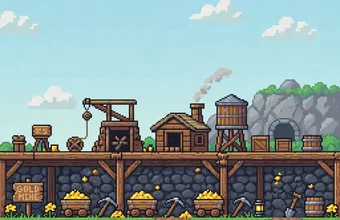
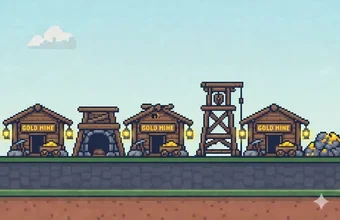
광부 버프
Entire-Checkpoint: e226fecc5db8

diff --git a/src/scenes/GameScene.ts b/src/scenes/GameScene.ts
@@ -74,6 +74,9 @@ export default class GameScene extends BaseScene {
   private feverTimeColorOffset: number = 0; // 무지개 색상 회전 오프셋
   private feverTimeColorTimer?: Phaser.Time.TimerEvent; // 색상 애니메이션 타이머
   private lastFeverTimeScore: number = 0; // 마지막 피버 타임 발동 점수
+  private feverCount: number = 0;          // 피버 발동 횟수 누계 (레인보우 피버 조건 판정용)
+  private isRainbowFever: boolean = false; // 레인보우 피버 활성 여부 (광부×황금광산 시너지)
+  private get feverTimeLabel(): string { return this.isRainbowFever ? 'RAINBOW FEVER' : 'FEVER TIME'; }
   /** difficultyLevel 기반으로 현재 spawn 간격을 항상 최신값으로 계산 */
   private get currentSpawnDelay(): number {
     return Math.max(400, this.difficultyConfig.spawnDelay - (this.difficultyLevel * 80));
@@ -83,6 +86,12 @@ export default class GameScene extends BaseScene {
   private static readonly RAINBOW_COLORS = [
     '#ff0000', '#ff7f00', '#ffff00', '#00ff00', '#0000ff', '#4b0082', '#9400d3',
   ];
+  /** 레인보우 피버 전용 네온 컬러 — 더 선명하고 밝은 팔레트 */
+  private static readonly NEON_RAINBOW_COLORS = [
+    '#ff00cc', '#ff6600', '#ffee00', '#00ff88', '#00ccff', '#cc00ff', '#ffffff',
+  ];
+  /** 레인보우 피버 변환 시 방울 터짐 효과 색상 */
+  private static readonly BUBBLE_COLORS = [0xff00ff, 0x00ffff, 0xffee00, 0x00ff88, 0xff6600, 0xcc00ff];
   private selectedCharId: string = 'chibi'; // 선택된 캐릭터 ID
   private selectedCharGrade: string = '등급외'; // 선택된 캐릭터 등급
   private charAwakeLevel: number = 0; // 각성 단계 (init에서 계산, create에서 사용)
@@ -125,6 +134,8 @@ export default class GameScene extends BaseScene {
     this.isFeverTime = false;
     this.feverTimeRemaining = 0;
     this.lastFeverTimeScore = 0;
+    this.feverCount = 0;
+    this.isRainbowFever = false;
     // 캐릭터 선택 화면에서 저장한 캐릭터 & 배경화면 사용
     this.selectedCharId = getSafeSelectedCharacter();
     this.selectedWpId = getSafeSelectedWallpaper();
@@ -321,11 +332,11 @@ export default class GameScene extends BaseScene {
       maxSize: 10,
     });
 
-    // 무지개똥 그룹 생성
+    // 무지개똥 그룹 생성 (레인보우 피버 시 최대 30개 동시 활성 가능)
     this.rainbowPoops = this.physics.add.group({
       classType: RainbowPoop,
       runChildUpdate: true,
-      maxSize: 10,
+      maxSize: 30,
     });
 
     // 풀 사전 할당 — create() 시점에 오브젝트를 미리 생성해 게임 중 런타임 생성 히치 방지
@@ -881,7 +892,11 @@ export default class GameScene extends BaseScene {
 
   private increaseDifficulty() {
     this.difficultyLevel += DIFFICULTY_SCALING.levelIncrement;
-    this.resetSpawnTimer(this.isFeverTime ? this.spawnFeverPoop : this.spawnPoop);
+    this.resetSpawnTimer(
+      this.isFeverTime
+        ? (this.isRainbowFever ? this.spawnRainbowFeverPoop : this.spawnFeverPoop)
+        : this.spawnPoop
+    );
   }
 
   /**
@@ -918,64 +933,111 @@ export default class GameScene extends BaseScene {
     this.isFeverTime = true;
     this.feverTimeRemaining = FEVER_TIME_CONFIG.duration;
 
-    // 기존 일반 똥들을 금똥/다이아똥으로 변환
-    if (this.poops) {
-      const poopPositions: Array<{ x: number; y: number; velocity: number }> = [];
+    // 레인보우 피버: 시너지에 rainbowFever 플래그가 있고 2번째 피버부터 4회마다 (2, 6, 10...)
+    this.feverCount++;
+    const isRainbowFeverNow =
+      this.activeSynergy?.rainbowFever === true &&
+      this.feverCount >= 2 &&
+      (this.feverCount - 2) % 4 === 0;
+    this.isRainbowFever = isRainbowFeverNow;
 
-      // 모든 똥의 위치와 속도 저장 후 풀에 반환 (비활성화)
+    // 기존 화면 위 똥들 처리
+    if (isRainbowFeverNow) {
+      // 레인보우 피버: 모든 기존 똥(일반+금+다이아)을 무지개똥으로 변환
+      const positions: Array<{ x: number; y: number; velocity: number }> = [];
+
       this.poops.children.entries.forEach((poop) => {
-        const poopSprite = poop as Poop;
-        if (!poopSprite.active) return;
-        const body = poopSprite.body as Phaser.Physics.Arcade.Body;
+        const s = poop as Poop;
+        if (!s.active) return;
+        const body = s.body as Phaser.Physics.Arcade.Body;
         if (!body) return;
-        poopPositions.push({ x: poopSprite.x, y: poopSprite.y, velocity: body.velocity.y });
-        poopSprite.recycle();
+        positions.push({ x: s.x, y: s.y, velocity: body.velocity.y });
+        s.recycle();
+      });
+      [this.goldPoops, this.diamondPoops].forEach((group) => {
+        group.children.entries.forEach((item) => {
+          const s = item as PoolablePoopBase;
+          if (!s.active) return;
+          const body = s.body as Phaser.Physics.Arcade.Body;
+          if (!body) return;
+          positions.push({ x: s.x, y: s.y, velocity: body.velocity.y });
+          s.recycle();
+        });
       });
 
-      // 같은 위치에 금똥/다이아똥 생성 (50:50 확률)
-      poopPositions.forEach((pos) => {
-        const isGold = Math.random() < 0.5;
+      positions.forEach((pos) => {
+        for (let b = 0; b < 7; b++) {
+          const r = Phaser.Math.Between(3, 7);
+          const startX = pos.x + Phaser.Math.Between(-10, 10);
+          const bubble = this.add.circle(startX, pos.y, r, GameScene.BUBBLE_COLORS[b % GameScene.BUBBLE_COLORS.length], 0.9).setDepth(200);
+          this.tweens.add({
+            targets: bubble,
+            x: startX + Phaser.Math.Between(-18, 18),
+            y: pos.y - Phaser.Math.Between(28, 55),
+            alpha: 0,
+            scaleX: 0.2,
+            scaleY: 0.2,
+            duration: Phaser.Math.Between(280, 480),
+            ease: 'Sine.easeOut',
+            delay: b * 20,
+            onComplete: () => bubble.destroy(),
+          });
+        }
 
-        if (isGold) {
-          const goldPoop = this.goldPoops.get() as GoldPoop;
-          if (goldPoop) {
-            goldPoop.reinit(pos.x, pos.y);
-            if (goldPoop.body) {
-              goldPoop.body.velocity.y = pos.velocity * FEVER_TIME_CONFIG.speedMultiplier;
+        const rp = this.rainbowPoops.get() as RainbowPoop;
+        if (!rp) return;
+        rp.reinit(pos.x, pos.y);
+        if (rp.body) {
+          rp.body.velocity.y = pos.velocity * FEVER_TIME_CONFIG.speedMultiplier;
+        }
+      });
+    } else {
+      // 일반 피버: 기존 일반 똥 → 금똥/다이아똥 변환
+      if (this.poops) {
+        const poopPositions: Array<{ x: number; y: number; velocity: number }> = [];
+
+        this.poops.children.entries.forEach((poop) => {
+          const poopSprite = poop as Poop;
+          if (!poopSprite.active) return;
+          const body = poopSprite.body as Phaser.Physics.Arcade.Body;
+          if (!body) return;
+          poopPositions.push({ x: poopSprite.x, y: poopSprite.y, velocity: body.velocity.y });
+          poopSprite.recycle();
+        });
+
+        poopPositions.forEach((pos) => {
+          const isGold = Math.random() < 0.5;
+          if (isGold) {
+            const goldPoop = this.goldPoops.get() as GoldPoop;
+            if (goldPoop) {
+              goldPoop.reinit(pos.x, pos.y);
+              if (goldPoop.body) {
+                goldPoop.body.velocity.y = pos.velocity * FEVER_TIME_CONFIG.speedMultiplier;
+              }
+            }
+          } else {
+            const diamondPoop = this.diamondPoops.get() as DiamondPoop;
+            if (diamondPoop) {
+              diamondPoop.reinit(pos.x, pos.y);
+              if (diamondPoop.body) {
+                diamondPoop.body.velocity.y = pos.velocity * FEVER_TIME_CONFIG.speedMultiplier;
+              }
             }
           }
-        } else {
-          const diamondPoop = this.diamondPoops.get() as DiamondPoop;
-          if (diamondPoop) {
-            diamondPoop.reinit(pos.x, pos.y);
-            if (diamondPoop.body) {
-              diamondPoop.body.velocity.y = pos.velocity * FEVER_TIME_CONFIG.speedMultiplier;
-            }
-          }
-        }
-      });
-    }
+        });
+      }
 
-    // 기존 금똥/다이아똥 속도만 증가
-    if (this.goldPoops) {
-      this.goldPoops.children.entries.forEach((goldPoop) => {
-        const goldPoopSprite = goldPoop as GoldPoop;
-        if (goldPoopSprite.body) {
-          goldPoopSprite.body.velocity.y *= FEVER_TIME_CONFIG.speedMultiplier;
-        }
-      });
-    }
-    if (this.diamondPoops) {
-      this.diamondPoops.children.entries.forEach((diamondPoop) => {
-        const diamondPoopSprite = diamondPoop as DiamondPoop;
-        if (diamondPoopSprite.body) {
-          diamondPoopSprite.body.velocity.y *= FEVER_TIME_CONFIG.speedMultiplier;
-        }
+      // 기존 금똥/다이아똥 속도만 증가
+      [this.goldPoops, this.diamondPoops].forEach((group) => {
+        group.children.entries.forEach((item) => {
+          const s = item as PoolablePoopBase;
+          if (s.body) s.body.velocity.y *= FEVER_TIME_CONFIG.speedMultiplier;
+        });
       });
     }
 
     // spawnTimer를 피버 타임 생성 패턴으로 교체
-    this.resetSpawnTimer(this.spawnFeverPoop);
+    this.resetSpawnTimer(isRainbowFeverNow ? this.spawnRainbowFeverPoop : this.spawnFeverPoop);
 
     // UI 텍스트 생성 (각 글자별로 개별 Text 객체 생성)
     // 기존 텍스트 제거
@@ -984,21 +1046,28 @@ export default class GameScene extends BaseScene {
     this.feverTimeColorOffset = 0;
 
     const initialSeconds = Math.ceil(FEVER_TIME_CONFIG.duration / 1000);
-    const fullText = `FEVER TIME ${initialSeconds}초`;
+    const fullText = `${this.feverTimeLabel} ${initialSeconds}초`;
 
     // 각 글자별로 Text 객체 생성 (x=0에 먼저 배치 후 width 합산해 재정렬)
-    const colors = GameScene.RAINBOW_COLORS;
+    const colors = isRainbowFeverNow ? GameScene.NEON_RAINBOW_COLORS : GameScene.RAINBOW_COLORS;
+    const uiFontSize = isRainbowFeverNow ? '22px' : FEVER_TIME_CONFIG.ui.fontSize;
+    const uiStroke  = isRainbowFeverNow ? '#cc00ff' : FEVER_TIME_CONFIG.ui.stroke;
+    const uiStrokeThickness = isRainbowFeverNow ? 5 : FEVER_TIME_CONFIG.ui.strokeThickness;
+
     for (let i = 0; i < fullText.length; i++) {
       const charText = this.add.text(
         0,
         FEVER_TIME_CONFIG.ui.position.y,
         fullText[i],
         {
-          fontSize: FEVER_TIME_CONFIG.ui.fontSize,
+          fontSize: uiFontSize,
           color: colors[i % colors.length],
           fontStyle: 'bold',
-          stroke: FEVER_TIME_CONFIG.ui.stroke,
-          strokeThickness: FEVER_TIME_CONFIG.ui.strokeThickness
+          stroke: uiStroke,
+          strokeThickness: uiStrokeThickness,
+          shadow: isRainbowFeverNow
+            ? { offsetX: 0, offsetY: 0, color: colors[i % colors.length], blur: 8, stroke: true, fill: true }
+            : undefined,
         }
       ).setOrigin(0, 0.5).setDepth(FEVER_TIME_CONFIG.ui.depth);
       this.feverTimeUITexts.push(charText);
@@ -1010,6 +1079,21 @@ export default class GameScene extends BaseScene {
     for (const charText of this.feverTimeUITexts) {
       charText.setX(currentX);
       currentX += charText.width;
+    }
+
+    // 레인보우 피버: 글자마다 파도치는 bounce 애니메이션
+    if (isRainbowFeverNow) {
+      this.feverTimeUITexts.forEach((charText, i) => {
+        this.tweens.add({
+          targets: charText,
+          y: FEVER_TIME_CONFIG.ui.position.y - 10,
+          duration: 260,
+          ease: 'Sine.easeInOut',
+          yoyo: true,
+          repeat: -1,
+          delay: i * 38,
+        });
+      });
     }
 
 
@@ -1030,7 +1114,7 @@ export default class GameScene extends BaseScene {
       this.feverTimeColorTimer.remove();
     }
     this.feverTimeColorTimer = this.time.addEvent({
-      delay: 200,
+      delay: isRainbowFeverNow ? 80 : 200,
       callback: this.updateFeverTimeColors,
       callbackScope: this,
       loop: true
@@ -1044,7 +1128,7 @@ export default class GameScene extends BaseScene {
     this.feverTimeRemaining -= 100; // 0.1초씩 감소
 
     const secondsRemaining = Math.ceil(this.feverTimeRemaining / 1000);
-    const newText = `FEVER TIME ${secondsRemaining}초`;
+    const newText = `${this.feverTimeLabel} ${secondsRemaining}초`;
 
     // 각 글자의 텍스트 내용 업데이트
     for (let i = 0; i < this.feverTimeUITexts.length; i++) {
@@ -1074,7 +1158,7 @@ export default class GameScene extends BaseScene {
    * 피버 타임 색상 애니메이션 업데이트
    */
   private updateFeverTimeColors() {
-    const colors = GameScene.RAINBOW_COLORS;
+    const colors = this.isRainbowFever ? GameScene.NEON_RAINBOW_COLORS : GameScene.RAINBOW_COLORS;
     this.feverTimeColorOffset = (this.feverTimeColorOffset - 1 + colors.length) % colors.length;
     for (let i = 0; i < this.feverTimeUITexts.length; i++) {
       this.feverTimeUITexts[i].setColor(colors[(i + this.feverTimeColorOffset) % colors.length]);
@@ -1088,9 +1172,10 @@ export default class GameScene extends BaseScene {
   private clearFeverTimeUI() {
     if (!this.isFeverTime) return;
     this.isFeverTime = false;
+    this.isRainbowFever = false;
     this.feverTimeTimer?.remove();
     this.feverTimeColorTimer?.remove();
-    this.feverTimeUITexts.forEach(t => t.destroy());
+    this.feverTimeUITexts.forEach(t => { this.tweens.killTweensOf(t); t.destroy(); });
     this.feverTimeUITexts = [];
   }
 
@@ -1150,6 +1235,28 @@ export default class GameScene extends BaseScene {
     }
 
     this.ability.onAfterSpawnPoop(this.abilityAPI);
+  }
+
+  /**
+   * 레인보우 피버 생성 패턴 — 무지개똥만 소환 (광부×황금광산 시너지)
+   */
+  private spawnRainbowFeverPoop() {
+    if (this.gameOver) return;
+
+    const baseFallSpeed = this.difficultyConfig.baseSpeed + (this.difficultyLevel * POOP_CONFIG.normal.speedIncrement);
+    const fallSpeed = baseFallSpeed * FEVER_TIME_CONFIG.speedMultiplier;
+    const totalCount = FEVER_TIME_CONFIG.normalPoopCount + FEVER_TIME_CONFIG.bonusPoopCount;
+
+    for (let i = 0; i < totalCount; i++) {
+      const x = Phaser.Math.Between(50, this.scale.width - 50);
+      const y = Phaser.Math.Between(-200, -20);
+      const rp = this.rainbowPoops.get() as RainbowPoop;
+      if (!rp) continue;
+      rp.reinit(x, y);
+      if (rp.body) {
+        rp.body.velocity.y = fallSpeed;
+      }
+    }
   }
 
   protected hitPoop(

diff --git a/src/config/synergyMap.ts b/src/config/synergyMap.ts
@@ -2,6 +2,7 @@ export interface WallpaperSynergy {
   label: string;        // UI 뱃지 텍스트
   speedBonus: number;   // 이동 속도 추가 (px/s)
   collectBonus: number; // 특수 똥 수집마다 추가 점수
+  rainbowFever?: boolean; // true → 특정 피버마다 레인보우 피버로 교체
 }
 
 // 모든 시너지의 고정 보너스 값
@@ -9,7 +10,7 @@ const SYNERGY_BONUSES = { speedBonus: 5, collectBonus: 2 } as const;
 
 // 'wallpaperId:characterId' → WallpaperSynergy
 export const SYNERGY_MAP: Record<string, WallpaperSynergy> = {
-  'wp_gold_mine:miner': { label: '황금 광산 × 광부', ...SYNERGY_BONUSES },
+  'wp_gold_mine:miner': { label: '황금 광산 × 광부', ...SYNERGY_BONUSES, rainbowFever: true },
   'wp_hanok:maehwa':    { label: '한옥 × 매화',      ...SYNERGY_BONUSES },
   'wp_lake:archieve':   { label: '호수 × 아카이브',  ...SYNERGY_BONUSES },
   'wp_maehwa:maehwa':   { label: '매화 × 매화',      ...SYNERGY_BONUSES },

diff --git a/src/data/releaseNotes.ts b/src/data/releaseNotes.ts
@@ -6,6 +6,14 @@ export interface ReleaseNote {
 
 export const RELEASE_NOTES: ReleaseNote[] = [
   {
+    version: 'v2.4.0',
+    date: '2026-04-13',
+    changes: [
+      '황금 광산 배경 이미지 고화질로 교체',
+      '광부 × 황금 광산 시너지 효과 추가 — 레인보우 피버 추가',
+    ],
+  },
+  {
     version: 'v2.3.0',
     date: '2026-03-22',
     changes: [
